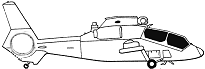
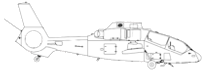
oh1 new sprite

Changed region(s): [[0.0, 0.0, 0.9951, 1.0], [0.1463, 0.087, 0.1756, 0.2029], [0.2634, 0.6957, 0.2927, 0.7246]]

diff --git a/shilka2/Aircrafts.cs b/shilka2/Aircrafts.cs
@@ -702,24 +702,26 @@ namespace shilka2
             new AircraftsType {
                 aircraftType = "oh1",
                 aircraftName = "OH-1 Ninja",
-                size = new int[] { 205, 69 },
+                size = new int[] { 205, 70 },
                 speed = 5,
                 maxAltitude = maxAltitudeForHelicopters,
                 price = 24,
                 elements = new List<DynamicElement> {
                     new DynamicElement {
-                        elementName = "prop_main",
-                        y = -10,
-                        x_left = -29,
-                        x_right = 12,
+                        elementName = "prop_main_ltl",
+                        y = -1,
+                        x_left = 10,
+                        x_right = 60,
                         movingType = DynamicElement.MovingType.xRotate,
+                        background = true
                     },
                     new DynamicElement {
                         elementName = "f_suppl",
-                        y = 34,
-                        x_left = 172,
-                        x_right = 10,
-                        movingType = DynamicElement.MovingType.zRotate
+                        y = 29,
+                        x_left = 161,
+                        x_right = 22,
+                        movingType = DynamicElement.MovingType.zRotate,
+                        background = true
                     }
                 }
             },
